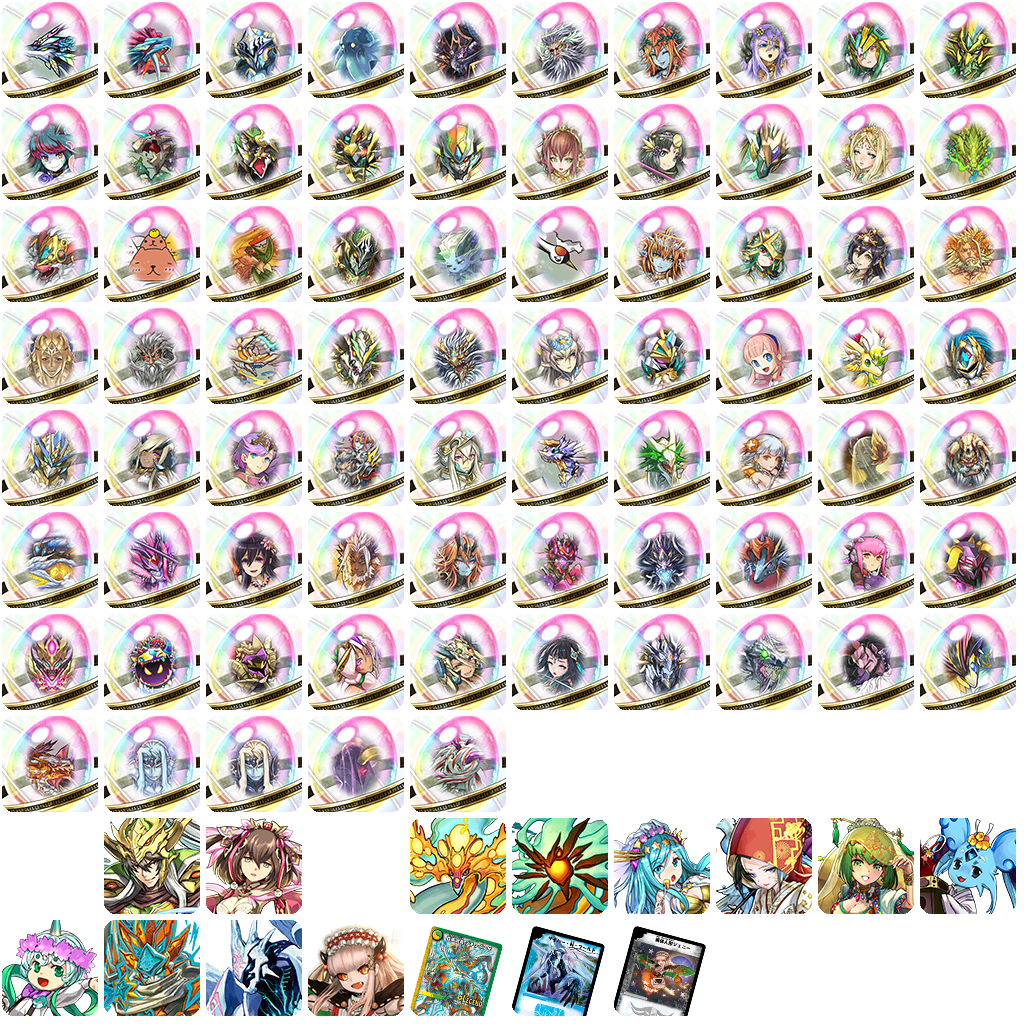
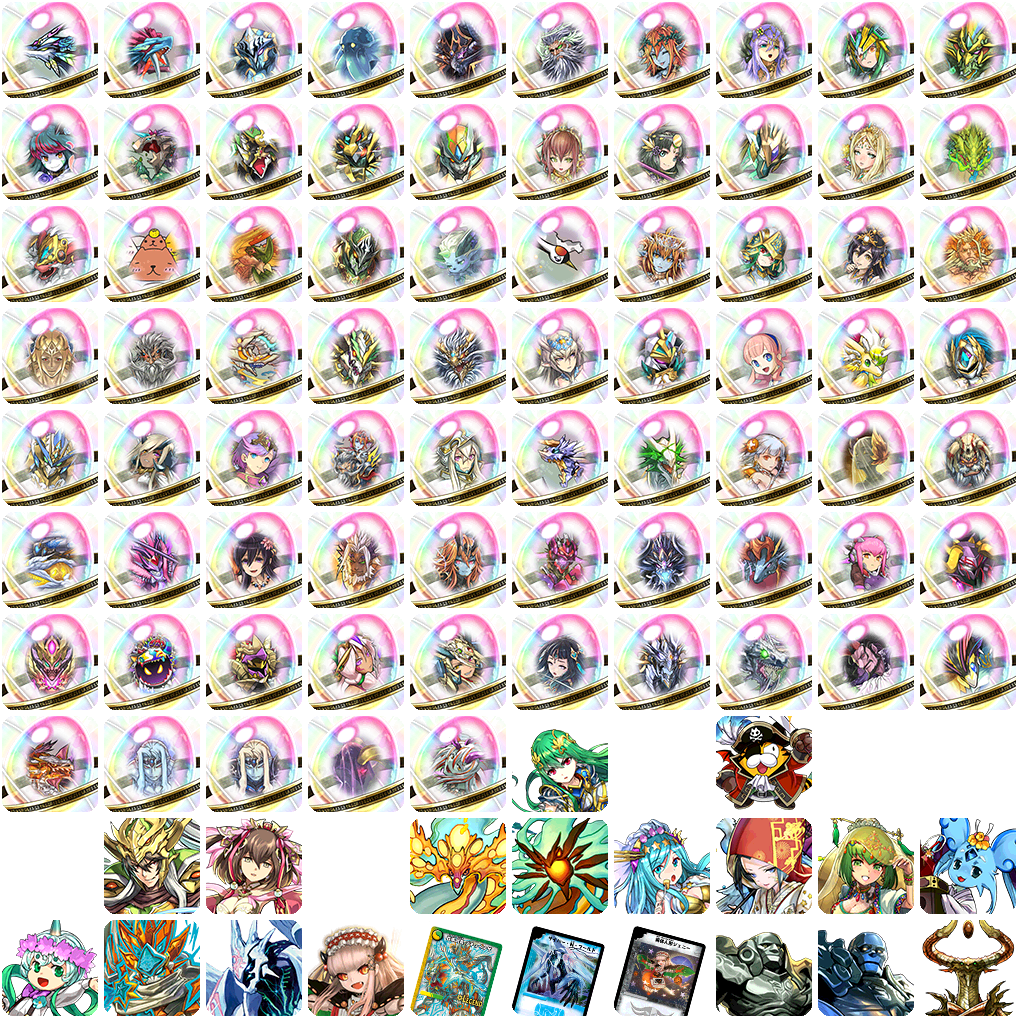
增加万智牌武器

Changed region(s): [[0.6875, 0.875, 1.0, 1.0], [0.6875, 0.6875, 0.8125, 0.8125], [0.5, 0.6875, 0.5938, 0.8125]]

diff --git a/生成二技宠物JSON.js b/生成二技宠物JSON.js
@@ -143,6 +143,7 @@ var monsterList = [
         4396, //技能卡片・ 亞基達因
         4398, //K冰霜披風
         4444, //皮莫皮莫
+        4618, //晴空號
     ]},
     {group: "宠物交换所通过免费宠换的：第三方合作（限时）",ids: [
         4388, //摩爾迦納
@@ -168,7 +169,7 @@ var monsterList = [
         1082, //黄天的果实・柠檬龙
         1084, //紫天的果实・葡萄龙
     ]},
-    {group: "雷达搜索徽章奖励（全凭运气或者花钱购买徽章）",ids: [
+    {group: "雷达搜索徽章奖励（全凭运气，几率极低）",ids: [
         3173, //冥道之根源神・伊邪那岐Ｘ
         3175, //紫光的深淵龍・默示Ｘ
         3176, //山津神之子・神鵺
@@ -187,6 +188,8 @@ var monsterList = [
         3336, //木古龍・天貝爾＆龍喚士・托年
         3162, //蛋藏Ｘ覺醒幻神・奧丁
         3910, //瞬刻的白龍喚士・索妮亞＝艾璐
+        4297, //冥黑神・拉＝龍
+        4576, //水都之守護神・雅典娜
     ]},
     {group: "MP商店：不限时购买",ids: [
         3447, //火古龍的裝甲Ｘ龍喚士・安娜
@@ -487,20 +490,24 @@ function dealMonsterHTML(responseText) {
         }else return false;
     })
     */
+    
     monster.bonus = {lvtype:0,num:[0,0,0]}; //储存辅助同属性追加的数值BONUS
     var bonusCard = content.querySelector("table:nth-of-type(6)"); //bonus的卡
     var bonusList = bonusCard.rows[1].cells[0].querySelector("table"); //具体显示bonus的表格
-    var maxBonusLine = bonusList.rows[bonusList.rows.length - 1];
-    if (/（LV110＆\+297時）/igm.test(maxBonusLine.cells[3].textContent))
+    if (bonusList !== undefined)
     {
-        monster.bonus.lvtype = 1;
-    }
-    for (var bi=0;bi<3;bi++)
-    {
-        var numCell = maxBonusLine.cells[bi];
-        var numSpan = numCell.querySelector("span");
-        var numInt = parseInt(numSpan.textContent.replace("+",""));
-        monster.bonus.num[bi] = numInt;
+        var maxBonusLine = bonusList.rows[bonusList.rows.length - 1];
+        if (/（LV110＆\+297時）/igm.test(maxBonusLine.cells[3].textContent))
+        {
+            monster.bonus.lvtype = 1;
+        }
+        for (var bi=0;bi<3;bi++)
+        {
+            var numCell = maxBonusLine.cells[bi];
+            var numSpan = numCell.querySelector("span");
+            var numInt = parseInt(numSpan.textContent.replace("+",""));
+            monster.bonus.num[bi] = numInt;
+        }
     }
 
     monster.awokens = []; //储存觉醒
